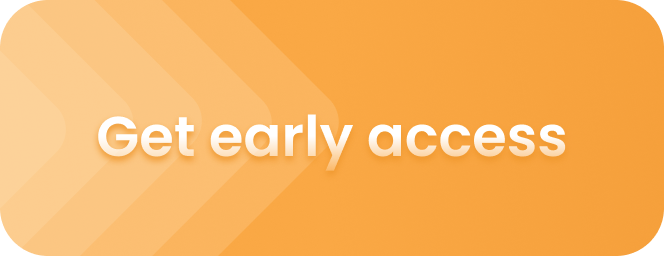
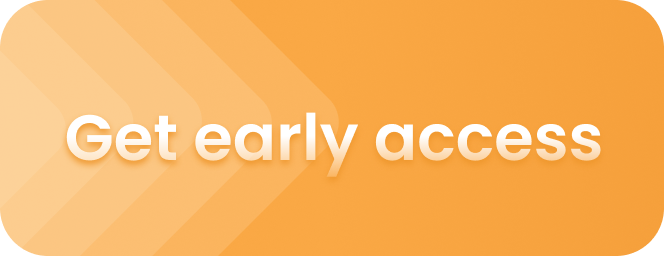
reposition early access button, update hover color

Changed region(s): [[0.0904, 0.4375, 0.9036, 0.6875]]

diff --git a/components/earlyAccessView/index.js b/components/earlyAccessView/index.js
@@ -43,7 +43,7 @@ function EarlyAccessView() {
   }
   return (
     <div id='earlyAccessView' className={styles.wrapperView}>
-      <div id='nextView' className={`${styles.bottomPanel} cursor`}>
+      {/* <div id='nextView' className={`${styles.bottomPanel} cursor`}>
         <Image
           onClick={handleTransitionNextView}
           layout='fill'
@@ -51,7 +51,7 @@ function EarlyAccessView() {
           src={'/icon/arrowBannerIcon.svg'}
           alt='arrowBannerIcon'
         />
-      </div>
+      </div> */}
       <div className={styles.button} onClick={openForm} />
     </div>
   );

diff --git a/components/earlyAccessView/earlyAccess.module.scss b/components/earlyAccessView/earlyAccess.module.scss
@@ -3,12 +3,12 @@
 .wrapperView {
   position: fixed;
   right: 50px;
-  bottom: 90px;
+  bottom: 20px;
   z-index: 999;
   display: flex;
-  justify-content: space-between;
+  justify-content: right;
   left: 50px;
-  width: calc(100vw - 100px);
+  width: calc(100vw - 200px);
   @include desktop {
     max-width: 1440px;
     margin: auto;
@@ -21,8 +21,8 @@
   }
 
   @include smallMobile {
-    right: 16px;
-    bottom: 16px;
+    left: 16px;
+    bottom: 18px;
   }
   .button {
     width: 166px;

diff --git a/pages/_app.js b/pages/_app.js
@@ -1,7 +1,7 @@
 import '../styles/index.scss';
 import PlausibleProvider from 'next-plausible';
-import InsightTag from '../components/linkedin/insightTag';
-import TawkWidget from '../components/tawkto/tawkWidget';
+import InsightTag from '../components/linkedin';
+import TawkWidget from '../components/tawkto';
 
 function MyApp({ Component, pageProps }) {
   return (

diff --git a/styles/globals.scss b/styles/globals.scss
@@ -28,7 +28,7 @@ button {
   background-color: $v-bg-F0A03F;
   border: unset;
   &:hover {
-    background-color: $v-bg-00BA88;
+    background-color: $v-bg-4bbec6;
   }
   &:active {
     background-color: $v-bg-46BFC7;

diff --git a/styles/_color.scss b/styles/_color.scss
@@ -1,3 +1,4 @@
 $v-bg-F0A03F: #F0A03F;
 $v-bg-00BA88: #00BA88;
 $v-bg-46BFC7: #46BFC7;
+$v-bg-4bbec6: #4bbec6;
